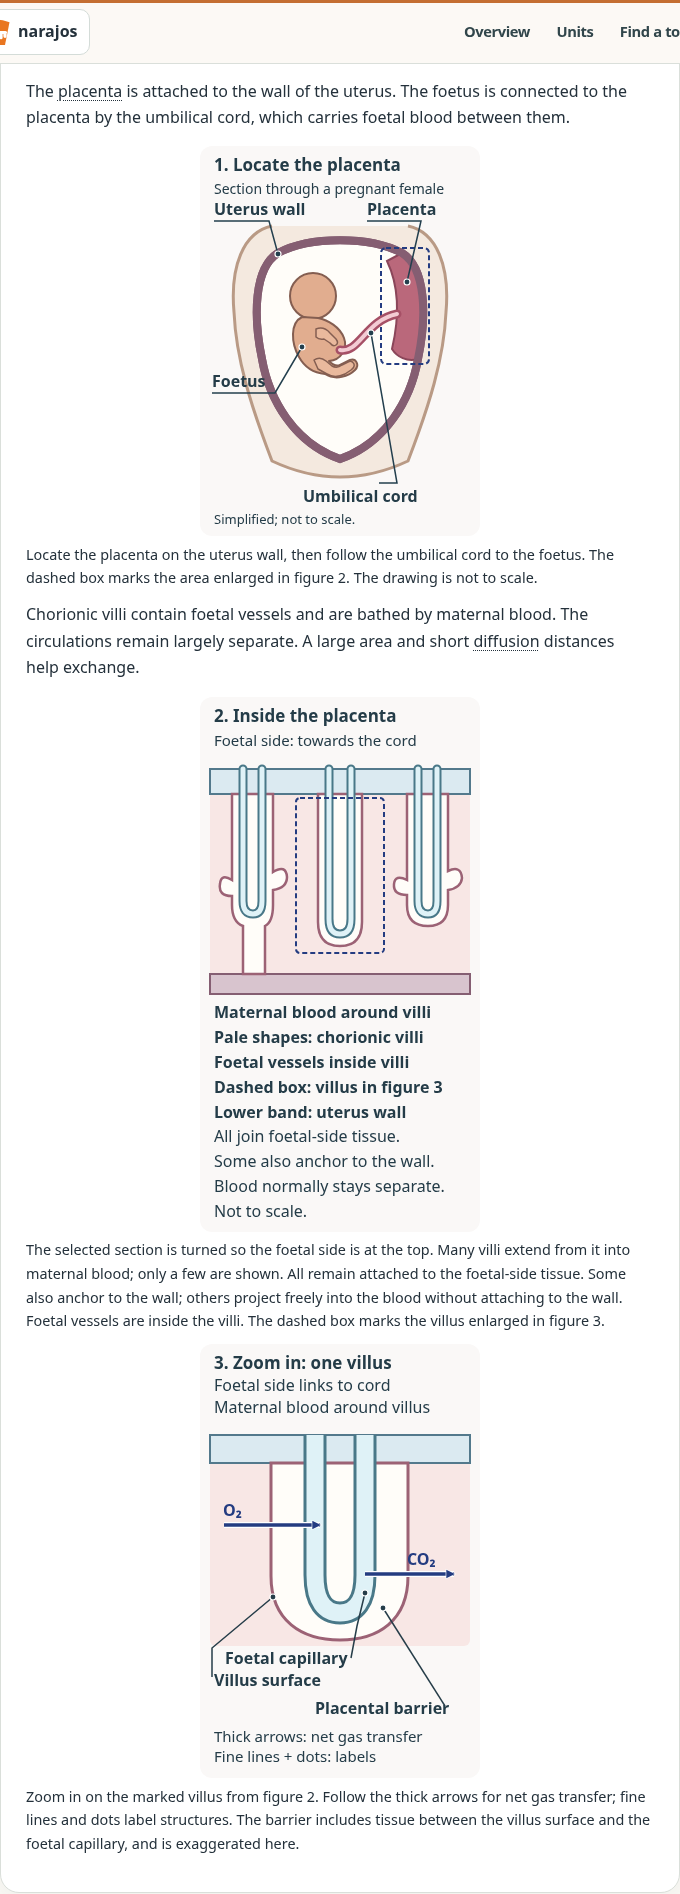
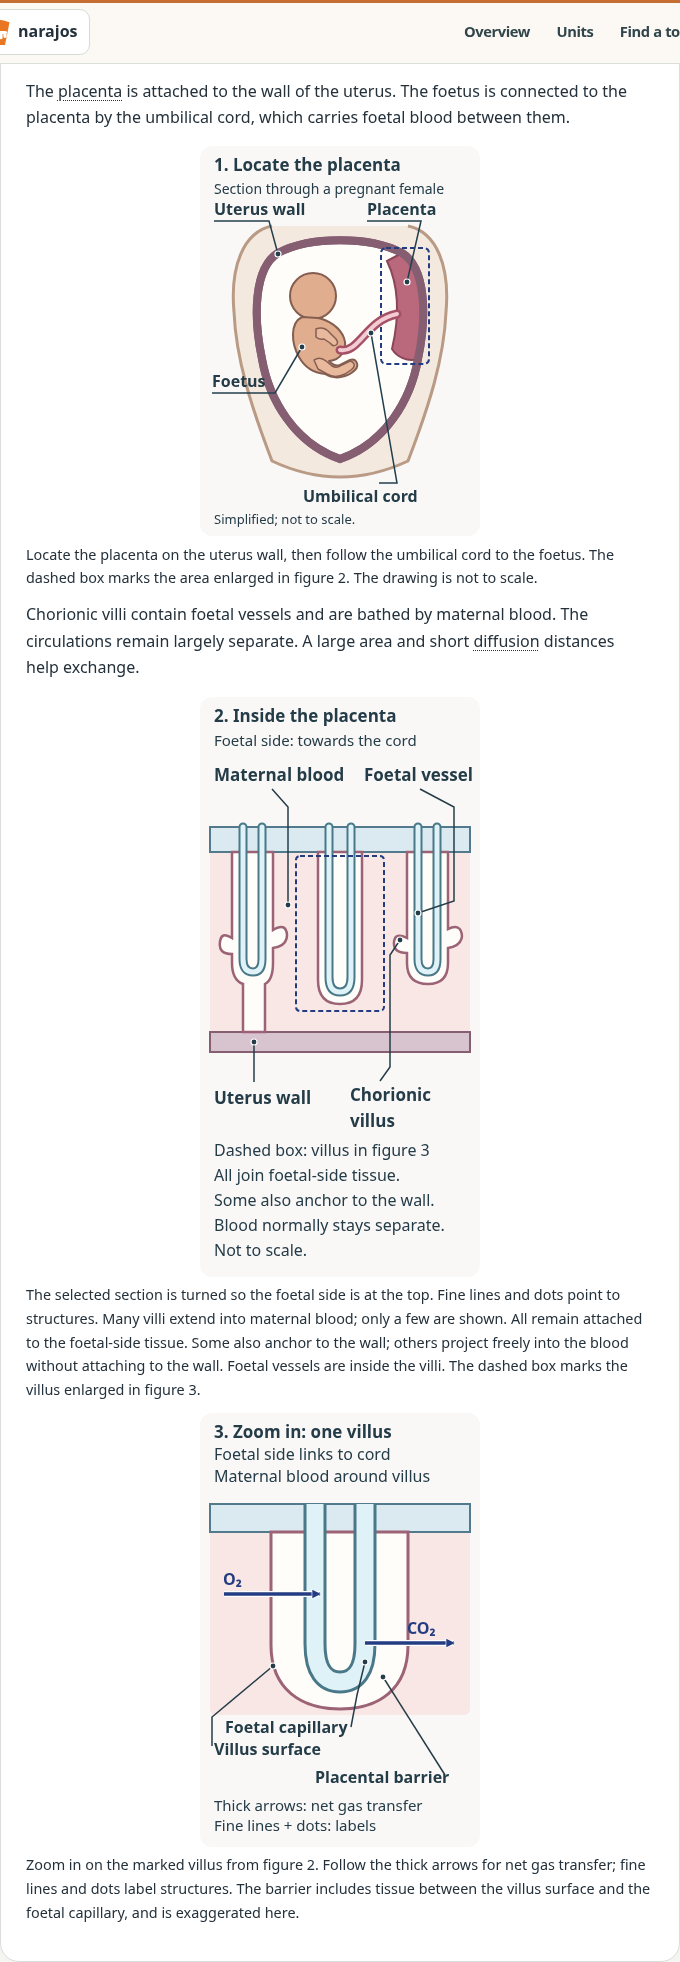
Label structures in placental overview

Changed region(s): [[0.0309, 0.0, 0.9882, 1.0]]

diff --git a/public/human-biology/teaching-knowledge.js b/public/human-biology/teaching-knowledge.js
@@ -252,9 +252,9 @@
         0: [{src:"/human-biology/f175-placenta-orientation.svg", width:280, height:390, compact:true, assessmentSensitive:true,
           alt:"A simplified section through a pregnant female's body shows the placenta attached to the wall of the uterus. An umbilical cord connects the placenta to the foetus and carries foetal blood. A dashed box marks the placenta region enlarged in figure 2. Fine lines label the structures. The drawing is not to scale.",
           caption:"Locate the placenta on the uterus wall, then follow the umbilical cord to the foetus. The dashed box marks the area enlarged in figure 2. The drawing is not to scale."}],
-        1: [{src:"/human-biology/f175-placenta-many-villi.svg", width:280, height:535, compact:true, assessmentSensitive:true,
-          alt:"A section of the placenta selected in figure 1 is turned so the foetal side, towards the cord, is at the top and the uterine wall below. Several branching chorionic villi extend into maternal blood; only a few are shown. All remain attached to the foetal-side tissue. One also anchors to the uterine wall; the others project freely into maternal blood without attaching to the wall. Blue loops represent the main foetal vessels inside the villi. A dashed box marks the middle villus enlarged in figure 3. Maternal and foetal blood normally remain separate; the schematic is not to scale.",
-          caption:"The selected section is turned so the foetal side is at the top. Many villi extend from it into maternal blood; only a few are shown. All remain attached to the foetal-side tissue. Some also anchor to the wall; others project freely into the blood without attaching to the wall. Foetal vessels are inside the villi. The dashed box marks the villus enlarged in figure 3."},
+        1: [{src:"/human-biology/f175-placenta-many-villi.svg", width:280, height:580, compact:true, assessmentSensitive:true,
+          alt:"A section of the placenta selected in figure 1 is turned so the foetal side, towards the cord, is at the top and the uterine wall below. Several branching chorionic villi extend into maternal blood; only a few are shown. All remain attached to the foetal-side tissue. One also anchors to the uterine wall; the others project freely into maternal blood without attaching to the wall. Blue loops represent the main foetal vessels inside the villi. Fine lines with contrasting dots point to the maternal blood, a foetal vessel, a chorionic villus and the uterus wall. A dashed box marks the middle villus enlarged in figure 3. Maternal and foetal blood normally remain separate; the schematic is not to scale.",
+          caption:"The selected section is turned so the foetal side is at the top. Fine lines and dots point to structures. Many villi extend into maternal blood; only a few are shown. All remain attached to the foetal-side tissue. Some also anchor to the wall; others project freely into the blood without attaching to the wall. Foetal vessels are inside the villi. The dashed box marks the villus enlarged in figure 3."},
           {src:"/human-biology/f175-placenta-villus.svg", width:280, height:434, compact:true, assessmentSensitive:true,
           alt:"An enlargement of the marked villus in figure 2 shows a chorionic villus attached to tissue on the foetal side, with a foetal capillary inside and maternal blood around it. A thick arrow shows net oxygen transfer from maternal blood across the placental barrier into foetal blood. A second thick arrow shows carbon dioxide moving the other way. Fine lines ending in dots label structures. The barrier is exaggerated and the drawing is not to scale.",
           caption:"Zoom in on the marked villus from figure 2. Follow the thick arrows for net gas transfer; fine lines and dots label structures. The barrier includes tissue between the villus surface and the foetal capillary, and is exaggerated here."}]

diff --git a/public/human-biology/f175-placenta-stage-figures.js b/public/human-biology/f175-placenta-stage-figures.js
@@ -7,7 +7,7 @@
  lesson.modelDiagrams={...lesson.modelDiagrams,
   0:[
    {...orientation,caption:'Locate the placenta and umbilical cord. The dashed box marks the area shown in figure 2.'},
-   {...many,caption:'Figure 2 turns the section so the foetal side is at the top. All villi remain attached to foetal-side tissue. Some also anchor to the uterine wall; others project freely into maternal blood. Foetal vessels lie inside. Only a few villi are shown; the dashed box marks the villus in figure 3.'},
+   {...many,caption:'Figure 2 turns the section so the foetal side is at the top. Fine lines and dots point to structures. All villi remain attached to foetal-side tissue. Some also anchor to the uterine wall; others project freely into maternal blood. Foetal vessels lie inside. Only a few villi are shown; the dashed box marks the villus in figure 3.'},
    {...villus,caption:'Figure 3 enlarges the marked villus. Locate maternal blood around it and the foetal capillary inside; the barrier is exaggerated.'}
   ],
   1:{...villus,caption:'Follow the oxygen arrow across the barrier into the foetal capillary. The arrow shows net transfer.'},

diff --git a/docs/catchup-visual-coverage-human-steps.md b/docs/catchup-visual-coverage-human-steps.md
@@ -112,7 +112,7 @@ The Lyme photograph is James Gathany / CDC, [PHIL 9875](https://phil.cdc.gov/Det
 | F172/a4 gene therapy | Explanation and model retain `gene-delivery.svg`; each of three model steps also uses `f172-gene-expression-comparison.svg`. | One fictional four-cell example shows incomplete delivery and expression, without claiming measured effectiveness. OCR and MedlinePlus/FDA sources are in the module. | Relates the low-protein starting state and incomplete target-cell delivery to the example outcome. | All worked stages inspected at 320/1280; sensitive figures hide during independent and after reload, and restore in teaching. | Somatic inheritance and other approaches such as editing or changing expression remain text-only. |
 | F174/a4 nutritional measurements | Explanation paragraphs 1–2 use `f174-bmi-composition.svg` and `f174-intake-biomarker.svg`; model step 1 uses BMI, steps 2–3 intake and biomarkers. | Equal height and mass imply equal BMI; fictional bar portions differ. Absorption, use and sampling conditions can affect comparisons; no real data are claimed. OCR and CDC sources are in the module. | Makes the limits of BMI and intake records visible alongside the corresponding facts. | Explanation and all stages checked at 320/1280; sensitive figures hide during independent/reload and restore in teaching. | Illustrative examples do not establish individual nutritional status or describe all biomarker factors. |
 | F174/a1 nutrients | Explanation and both model steps use `meals-energy-iron.svg`; model step 2 also uses `f174-iron-haemoglobin-oxygen.svg`. | Meals are fictional and iron supports haemoglobin production in developing red cells, which carry oxygen. No measured nutrient data or guaranteed clinical effect is implied; OCR and NHLBI sources are in the module. | Separates energy from an iron source and traces iron to haemoglobin and oxygen transport. | Both stages checked at 320/1280; sensitive copies hide during independent/reload and return in teaching. | Roles of other nutrients and other causes of iron deficiency remain unillustrated. |
-| F175/a2 placenta | Explanation paragraph 1: `f175-placenta-orientation.svg`; paragraph 2: `f175-placenta-many-villi.svg` and `f175-placenta-villus.svg`. Model step 1 presents all three in order; steps 2–3 each have their own adjacent villus view. Recaps 0–1 reuse all three. | **Accuracy:** checked against [OpenStax anatomy and physiology 2e §28.2](https://openstax.org/books/anatomy-and-physiology-2e/pages/28-2-embryonic-development) for location, separate circulations and gas direction, and [NCBI Bookshelf on the placenta](https://www.ncbi.nlm.nih.gov/books/NBK53256/) for villi attached to foetal-side tissue, including some that also anchor to the uterine wall. The simplified drawings exaggerate the placental barrier and are not to scale. The [OCR F175 specification](https://www.ocr.org.uk/Images/697578-specification-cambridge-advanced-national-in-human-biology.pdf) covers foetal development and antenatal care; this exchange diagram supports the existing lesson rather than claiming this histological detail is a specific requirement. | **Teaching relevance:** the first view locates the placenta, uterus, foetus and cord; the turned middle view shows villi attached to foetal-side tissue, some also anchoring to the uterine wall; the enlarged villus shows maternal blood outside and a foetal capillary within. Thick gas arrows contrast with thin dotted leaders. | **Readability:** teaching figures visually checked at 320 and 1280 px; arrowheads and leader endpoints inspected separately. Assessment-sensitive copies are covered by the focused Human Biology regression. | The intermediate schematic shows a few villi and omits most branching; it does not quantify surface area. The earlier unorientated figures remain withheld. |
+| F175/a2 placenta | Explanation paragraph 1: `f175-placenta-orientation.svg`; paragraph 2: `f175-placenta-many-villi.svg` and `f175-placenta-villus.svg`. Model step 1 presents all three in order; steps 2–3 each have their own adjacent villus view. Recaps 0–1 reuse all three. | **Accuracy:** checked against [OpenStax anatomy and physiology 2e §28.2](https://openstax.org/books/anatomy-and-physiology-2e/pages/28-2-embryonic-development) for location, separate circulations and gas direction, and [NCBI Bookshelf on the placenta](https://www.ncbi.nlm.nih.gov/books/NBK53256/) for villi attached to foetal-side tissue, including some that also anchor to the uterine wall. The simplified drawings exaggerate the placental barrier and are not to scale. The [OCR F175 specification](https://www.ocr.org.uk/Images/697578-specification-cambridge-advanced-national-in-human-biology.pdf) covers foetal development and antenatal care; this exchange diagram supports the existing lesson rather than claiming this histological detail is a specific requirement. | **Teaching relevance:** the first view locates the placenta, uterus, foetus and cord; the turned middle view shows villi attached to foetal-side tissue, some also anchoring to the uterine wall; the enlarged villus shows maternal blood outside and a foetal capillary within. The middle view uses thin unheaded leaders with contrasting endpoints to identify maternal blood, foetal vessel, villus and uterus wall; the enlarged view distinguishes these from thick gas arrows. | **Readability:** teaching figures visually checked at 320 and 1280 px; arrowheads and leader endpoints inspected separately. Assessment-sensitive copies are covered by the focused Human Biology regression. | The intermediate schematic shows a few villi and omits most branching; it does not quantify surface area. The earlier unorientated figures remain withheld. |
 | F175/a4 IVF/ICSI | Explanation and model: `ivf-icsi.svg` compares bringing sperm and oocyte together with injection, followed by conditional transfer and implantation. | Injection is shown as an IVF method; later transfer and implantation are conditional. Checked against lesson; external specification review pending. | Directly supports fertilisation method and uncertainty of later implantation; the model's bypass of oviduct transport is not pictured. | Redesigned to fit; checked at 320 and 1280 px without horizontal scrolling. | Reproductive anatomy would clarify the oviduct bypass. |
 | F176/a2 neurones | Explanation: `action-potential-ions.svg` compares sodium entry in depolarisation with potassium leaving during repolarisation. Model: existing synapse visual is provided through `visualFrom`; step 6 additionally shows `threshold-comparison.svg` alongside the comparison of potentials. | Arrow directions and stages match the lesson; channel timing is simplified. The worked graph plots −65 and −58 mV against a −55 mV threshold with a linear axis. Checked against lesson; external specification review pending. | Supports the ionic explanation. The graph supports the worked threshold comparison. The existing synapse model is visible at the opening worked step, but its stages are student-controlled rather than automatically synchronised with the worked steps. | New figures checked at 320 and 1280 px; labels and both ion stages and the graph are visible without scrolling. | Review whether students can connect the separately controlled synapse model to each of the first five worked steps; the graph compares potentials, not the cellular mechanism of reduced inhibition. |
 

diff --git a/docs/catchup-visual-quality-phase2.md b/docs/catchup-visual-quality-phase2.md
@@ -13,7 +13,7 @@ This is a targeted adversarial review of selected teaching routes, not a full sc
 | A-level co-transport, chemiosmosis and oxidative phosphorylation | High: the sodium gradient was implicit and overlapping electron/proton arrows obscured causal direction. | The ileum comparison labels the sodium gradient; electron transfer and proton pumping are separated, with particles shown on both sides of the membrane. | Captions explain energy coupling and omitted detail; reviewed with the adjacent A-level explanation, at 320 and 1280 px. |
 | A-level synapse and conduction | High: a continuous similarly coloured arrow could suggest acetylcholine itself entered the cell as sodium; node leaders missed the exposed axon. | ACh has a distinct diamond shape and binds outside the receptor channel; a separate arrow shows sodium entry. Node leaders meet exposed axon, and the text distinguishes local current from action-potential regeneration. | [Synapse before](catchup-visual-phase2/alevel-synapse-before-phone.png) · [after](catchup-visual-phase2/alevel-synapse-after-phone.png). The conduction curves show direction, not a path outside the axon. |
 | AAQ F171 antigen recognition and F176 synapse | High: helper T-cell recognition and receptor contact were not shown, and a transmitter needed a clear label. | Separate simplified interfaces show peptide–MHC recognition and direct B-cell binding; the synapse labels a transmitter and receptor contact. | Leaders end at the structures they name; arrows and label lines are visually distinct. [Immunity before](catchup-visual-phase2/human-immunity-before-phone.png) · [after](catchup-visual-phase2/human-immunity-after-phone.png). |
-| AAQ F175 placental exchange | High: the Phase 1 villus was withheld because it lacked anatomical orientation and resembled a cell. | Three linked schematics locate the uterus, placenta, foetus and cord, then show several villi before enlarging one to distinguish maternal blood, the barrier and foetal capillary. Dashed selections link the views; the middle section is turned to place the foetal side at the top. Thick arrows show net gas transfer; fine lines and dots identify structures. | Barrier and sizes are exaggerated; maternal and foetal blood normally remain separate. [Phone](catchup-visual-phase2/human-placenta-phone.png) · [Desktop](catchup-visual-phase2/human-placenta-desktop.png) · [Worked step, phone](catchup-visual-phase2/human-placenta-worked-phone.png) · [worked step, desktop](catchup-visual-phase2/human-placenta-worked-desktop.png). This is supplementary scaffolding for the existing lesson; OCR F175 does not explicitly require this exchange histology. |
+| AAQ F175 placental exchange | High: the Phase 1 villus was withheld because it lacked anatomical orientation and resembled a cell. | Three linked schematics locate the uterus, placenta, foetus and cord, then show several villi before enlarging one to distinguish maternal blood, the barrier and foetal capillary. Dashed selections link the views; the middle section is turned to place the foetal side at the top. Thick arrows show net gas transfer; fine lines and dots identify structures in both close-up views. | Barrier and sizes are exaggerated; maternal and foetal blood normally remain separate. [Phone](catchup-visual-phase2/human-placenta-phone.png) · [Desktop](catchup-visual-phase2/human-placenta-desktop.png) · [Middle view, phone](catchup-visual-phase2/human-placenta-middle-phone.png) · [middle view, desktop](catchup-visual-phase2/human-placenta-middle-desktop.png) · [Worked step, phone](catchup-visual-phase2/human-placenta-worked-phone.png) · [worked step, desktop](catchup-visual-phase2/human-placenta-worked-desktop.png). This is supplementary scaffolding for the existing lesson; OCR F175 does not explicitly require this exchange histology. |
 
 The changed figures use editable original vectors. A photograph or micrograph is valuable when recognising a real specimen is the learning goal; these specific fixes concern relationships, movement and orientation that benefit from simplified explanatory diagrams. This review did not systematically source new micrographs or re-review every existing photograph. Existing questions already ask learners to identify the active-transport direction and antibody target, so the review did not add repetitive checks. Existing question and progress workflows are retained; opening a teaching figure is not evidence of mastery.
 
